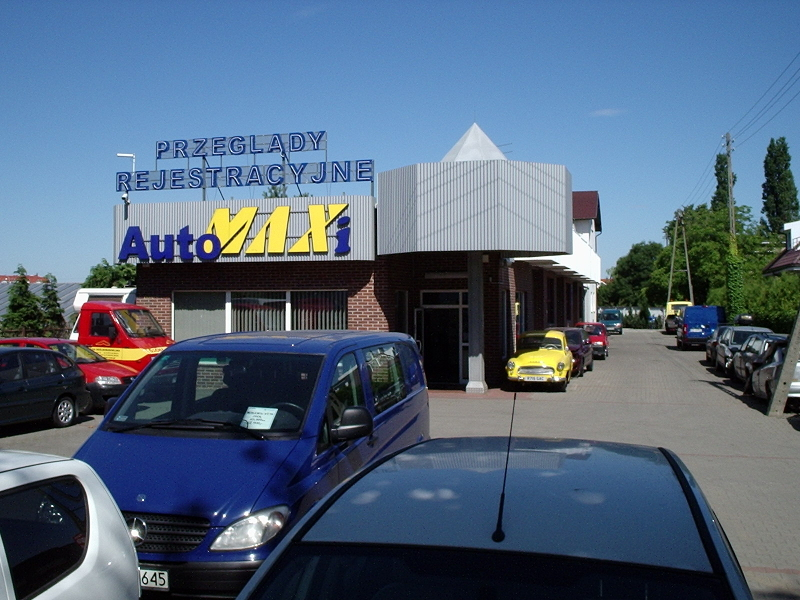
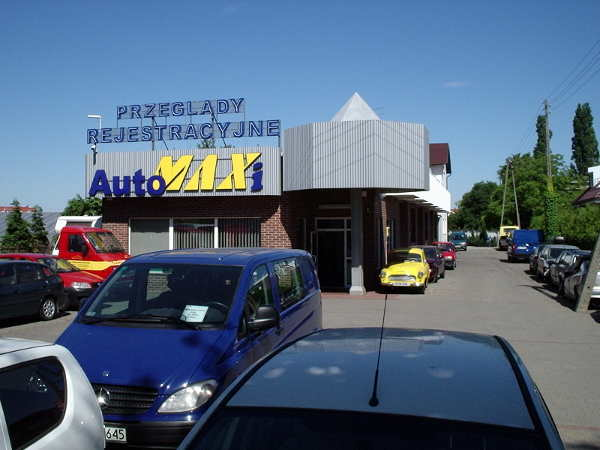
make images smaller

diff --git a/src/components/ServiceDetails/ServiceDetails.component.js b/src/components/ServiceDetails/ServiceDetails.component.js
@@ -28,18 +28,20 @@ const ServiceDetails = props => {
       <div className={styles.contentWrapper}
            style={{ width: `${100 - props.imageWidthInVW}vw` }}
       >
-        <h3 className={styles.heading}>{props.heading}</h3>
-        <hr className={
-          `${styles.underlining} ${props.isBright ?
-            styles['underlining--primary-color']
-            : styles['underlining--secondary-color']}`
-          } />
-        <span className={styles.text}><ReactMarkdown source={props.text || ''} /></span>
-        <Bullets
-          isBright={props.isBright}
-          bulletList={props.bulletList}
-        />
-        {props.children}
+        <div>
+          <h3 className={styles.heading}>{props.heading}</h3>
+          <hr className={
+            `${styles.underlining} ${props.isBright ?
+              styles['underlining--primary-color']
+              : styles['underlining--secondary-color']}`
+            } />
+          <span className={styles.text}><ReactMarkdown source={props.text || ''} /></span>
+          <Bullets
+            isBright={props.isBright}
+            bulletList={props.bulletList}
+          />
+          {props.children}
+        </div>
       </div>
     </section>
   )

diff --git a/src/components/MainPage/MainPage.stylesheet.css b/src/components/MainPage/MainPage.stylesheet.css
@@ -1,9 +1,14 @@
+.MainPage {
+  padding-bottom: 20px; }
+
 .lastSectionsWrapper {
   position: relative;
   height: 220vh; }
   @media only screen and (max-width: 650px) {
     .lastSectionsWrapper {
       background-attachment: scroll !important; } }
+  .lastSectionsWrapper a {
+    color: white; }
 
 .descriptionBackground {
   background: #1b2f69;
@@ -13,11 +18,11 @@
   width: 100%; }
 
 .contactBackground {
-  background: #101010;
+  background: #887010;
+  opacity: 0.90;
   height: 50%;
   width: 100%;
   position: absolute;
-  top: 110vh;
-  opacity: 0.95; }
+  top: 110vh; }
 
 /*# sourceMappingURL=MainPage.stylesheet.css.map */

diff --git a/src/components/Contact/Contact.stylesheet.css b/src/components/Contact/Contact.stylesheet.css
@@ -26,7 +26,7 @@
 
 .buildingPhoto {
   width: 23vw;
-  height: 21vw;
+  height: 19vw;
   border-radius: 3px;
   border: 1px solid #717171;
   display: inline-block;
@@ -40,7 +40,7 @@
 
 .map {
   width: 23vw;
-  height: 21vw;
+  height: 19vw;
   border-radius: 3px;
   border: 1px solid #717171;
   display: inline-block; }
@@ -98,6 +98,6 @@
       text-decoration: underline; }
   @media only screen and (max-width: 650px) {
     .links {
-      padding-top: 17px; } }
+      padding: 17px 0; } }
 
 /*# sourceMappingURL=Contact.stylesheet.css.map */

diff --git a/src/components/Contact/Contact.stylesheet.scss b/src/components/Contact/Contact.stylesheet.scss
@@ -29,7 +29,7 @@
 
 .buildingPhoto {
   width: 23vw;
-  height: 21vw;
+  height: 19vw;
   border-radius: 3px;
   border: 1px solid #717171;
   display: inline-block;
@@ -44,7 +44,7 @@
 
 .map {
   width: 23vw;
-  height: 21vw;
+  height: 19vw;
   border-radius: 3px;
   border: 1px solid #717171;
   display: inline-block;
@@ -111,6 +111,6 @@
     }
   }
   @media only screen and (max-width: 650px) {
-    padding-top: 17px;
+    padding: 17px 0;
   }
 }

diff --git a/src/components/MainPage/MainPage.stylesheet.scss b/src/components/MainPage/MainPage.stylesheet.scss
@@ -1,4 +1,5 @@
 .MainPage {
+  padding-bottom: 20px;
 }
 
 .lastSectionsWrapper {
@@ -6,6 +7,9 @@
   height: 220vh;
   @media only screen and (max-width: 650px) {
     background-attachment: scroll !important;
+  }
+  a {
+    color: white;
   }
 }
 
@@ -18,10 +22,10 @@
 }
 
 .contactBackground {
-  background: #101010;
+  background: #887010;
+  opacity: 0.90;
   height: 50%;
   width: 100%;
   position: absolute;
   top: 110vh;
-  opacity: 0.95;
 }

diff --git a/src/components/MainPage/MainPage.component.js b/src/components/MainPage/MainPage.component.js
@@ -15,7 +15,7 @@ import { getDescription, getSummary, getCooperation1, getCooperation2 } from '..
 import styles from './MainPage.stylesheet.css';
 
 const MainPage = ({ description, summary, cooperation1, cooperation2 }) =>
-  <section>
+  <section className={styles.MainPage}>
     <ClientLogos logoHeight={40} />
     <Element name="start">
       <Jumbotron />

diff --git a/src/components/ServiceDetails/ServiceDetails.stylesheet.css b/src/components/ServiceDetails/ServiceDetails.stylesheet.css
@@ -15,8 +15,11 @@
   @media screen and (max-width: 650px) {
     .contentWrapper {
       min-width: 90vw;
+      display: flex;
+      align-items: center;
+      justify-content: center;
       margin: 0 auto;
-      padding: 3vh 0; } }
+      min-height: 90vh; } }
 
 .image {
   display: inline-block;

diff --git a/src/components/ServiceDetails/ServiceDetails.stylesheet.scss b/src/components/ServiceDetails/ServiceDetails.stylesheet.scss
@@ -14,8 +14,11 @@
   padding: 0 7vw;
   @media screen and (max-width: 650px) {
     min-width: 90vw;
+    display: flex;
+    align-items: center;
+    justify-content: center;
     margin: 0 auto;
-    padding: 3vh 0;
+    min-height: 90vh;
   }
 }
 

diff --git a/src/components/Header/Header.stylesheet.css b/src/components/Header/Header.stylesheet.css
@@ -34,7 +34,7 @@
       width: 21px;
       height: 28px;
       font-size: 3rem;
-      right: 11px;
+      right: 25px;
       line-height: 20px;
       top: 86px; } }
 

diff --git a/src/components/Header/Header.stylesheet.scss b/src/components/Header/Header.stylesheet.scss
@@ -35,7 +35,7 @@
     width: 21px;
     height: 28px;
     font-size: 3rem;
-    right: 11px;
+    right: 25px;
     line-height: 20px;
     top: 86px;
   }
